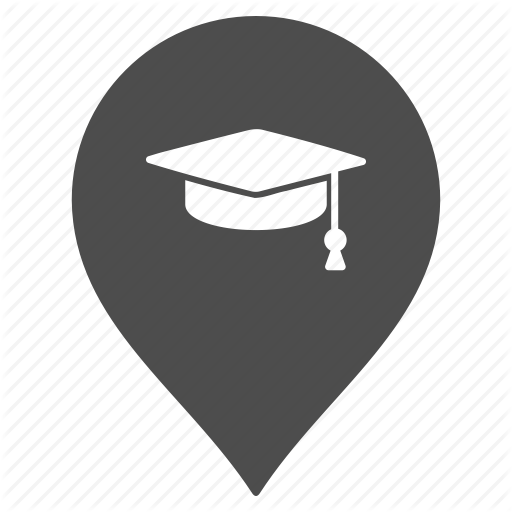
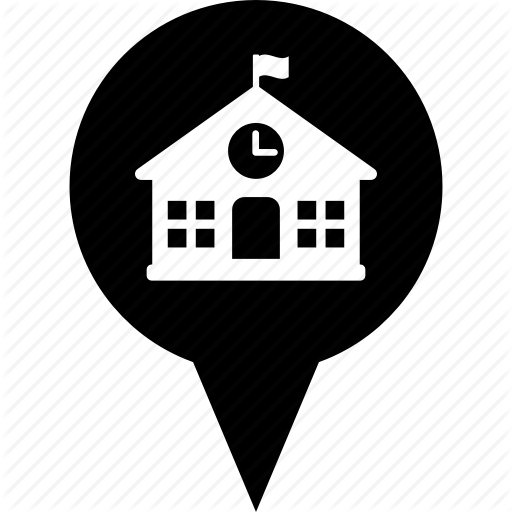
update 10/29

diff --git a/lab2-part2.html b/lab2-part2.html
@@ -7,6 +7,7 @@
 	<script src="https://unpkg.com/leaflet@1.5.1/dist/leaflet.js"></script>
 	<script src="https://cdnjs.cloudflare.com/ajax/libs/jquery/3.5.1/jquery.min.js"></script>
 	<script src= "https://cdn.jsdelivr.net/npm/leaflet-legend@1.0.2/leaflet-legend.min.js"></script>
+	<script src="js/leaflet-providers.js"></script>
 	<!-- the Fullscreen plugin -->
 	<script src='https://api.mapbox.com/mapbox.js/plugins/leaflet-fullscreen/v1.0.1/Leaflet.fullscreen.min.js'></script>
 	<link href='https://api.mapbox.com/mapbox.js/plugins/leaflet-fullscreen/v1.0.1/leaflet.fullscreen.css' rel='stylesheet' />
@@ -38,6 +39,7 @@ body {
 
 	<p>This map depicts volcanic hazards and schools that may be destroyed if there is a volcanic eruption.</p>
 
+<!-- Code to build the legend -->
 	<div id="legend">
 			<h3><center>Legend</center></h3>
 			<ul style="list-style-type:none">
@@ -60,15 +62,16 @@ body {
 	<!-- code where we build the map and its functionality -->
 	<script>
 		var mymap = L.map('map', {fullscreenControl: true,}).setView([47.15, -122.165973], 10);
-		var basemap = L.tileLayer('https://stamen-tiles-{s}.a.ssl.fastly.net/terrain/{z}/{x}/{y}{r}.png', {
-			attribution: 'Map tiles by <a href="http://stamen.com">Stamen Design</a>, <a href="http://creativecommons.org/licenses/by/3.0">CC BY 3.0</a> &mdash; Map data &copy; <a href="https://www.openstreetmap.org/copyright">OpenStreetMap</a> contributors',
+		var USGS_USImagery = L.tileLayer('https://basemap.nationalmap.gov/arcgis/rest/services/USGSImageryOnly/MapServer/tile/{z}/{y}/{x}', {
+			maxZoom: 20,
+			attribution: 'Tiles courtesy of the <a href="https://usgs.gov/">U.S. Geological Survey</a><br>School and Volcanic data courtesy of the <a href="https://gisdata-piercecowa.opendata.arcgis.com/">Pierce County Open GeoSpatial Data Portal</a>'
 		}).addTo(mymap);
 
 
 
 		var mySchools = L.icon({
 		    iconUrl: 'schoolicon.png',
-		    iconSize: [15, 18],
+		    iconSize: [30, 30],
 		    iconAnchor: [0, 0],
 		    popupAnchor: [0, 0],
 		});
